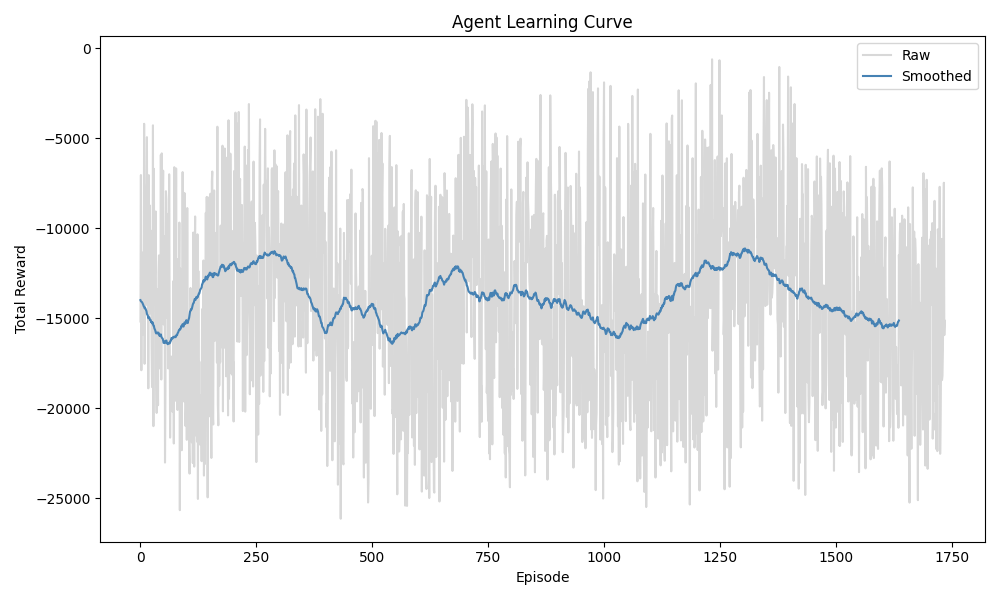
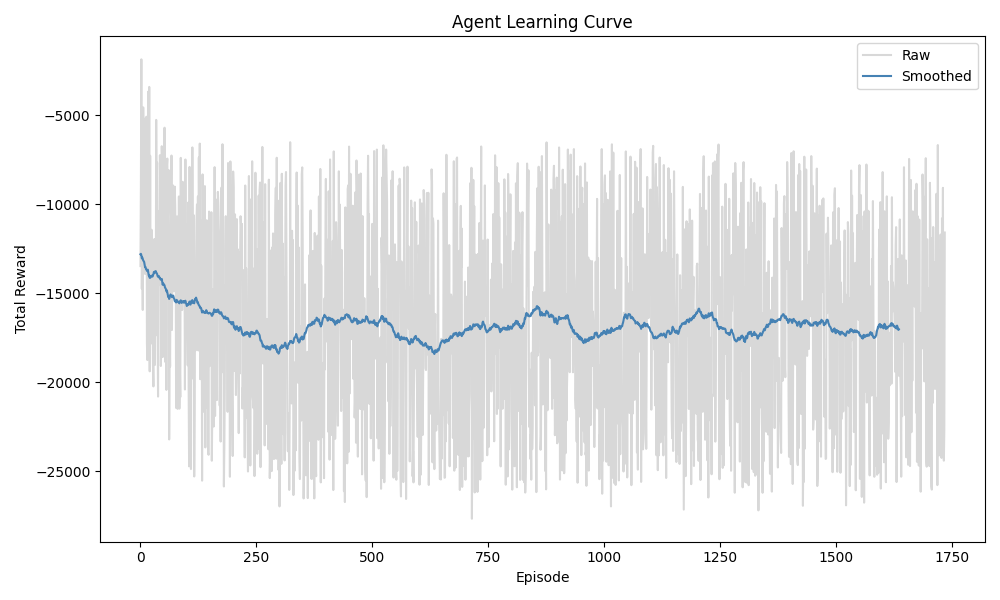
disable adversarial training for stable base policy learning

diff --git a/env/traffic_env.py b/env/traffic_env.py
@@ -71,11 +71,10 @@ class TrafficEnv(gym.Env):
         ratio = self.ns_queue / (self.ew_queue + 1)
 
 
-        # randomizes arrival rate multipliers at the start of each episode
-        # -> forces agent to learn a general policy across many traffic conditions
-        # -> range 0.5 to 2.0 covers quiet to heavy surge conditions
-        self.ns_multiplier = np.random.uniform(0.5, 2.0)
-        self.ew_multiplier = np.random.uniform(0.5, 2.0)
+        # multipliers fixed at 1.0 for stable base training
+        # adversarial randomization will be re-enabled once base policy converges
+        self.ns_multiplier = 1.0
+        self.ew_multiplier = 1.0
 
 
         # called so that the RL algorithm knows what the starting environment looks like
@@ -88,7 +87,7 @@ class TrafficEnv(gym.Env):
 
     # returns real-world N/S and E/W arrival rates based on current hour of the day
     # uses data from Rural Rd & University Dr (Tempe, 2016) loaded from arrival_rates.csv
-    # -> multipliers are randomized each episode during training for adversarial training
+    # -> multipliers fixed at 1.0 during base training for stability
     # -> multipliers can be set manually at evaluation time to test specific scenarios
     def _get_arrival_rates(self):
         hour = (self.step_count // 240) % 24    # converts timestep to hour of day (1 timestep = 15 seconds, 240 timesteps = 1 hour)